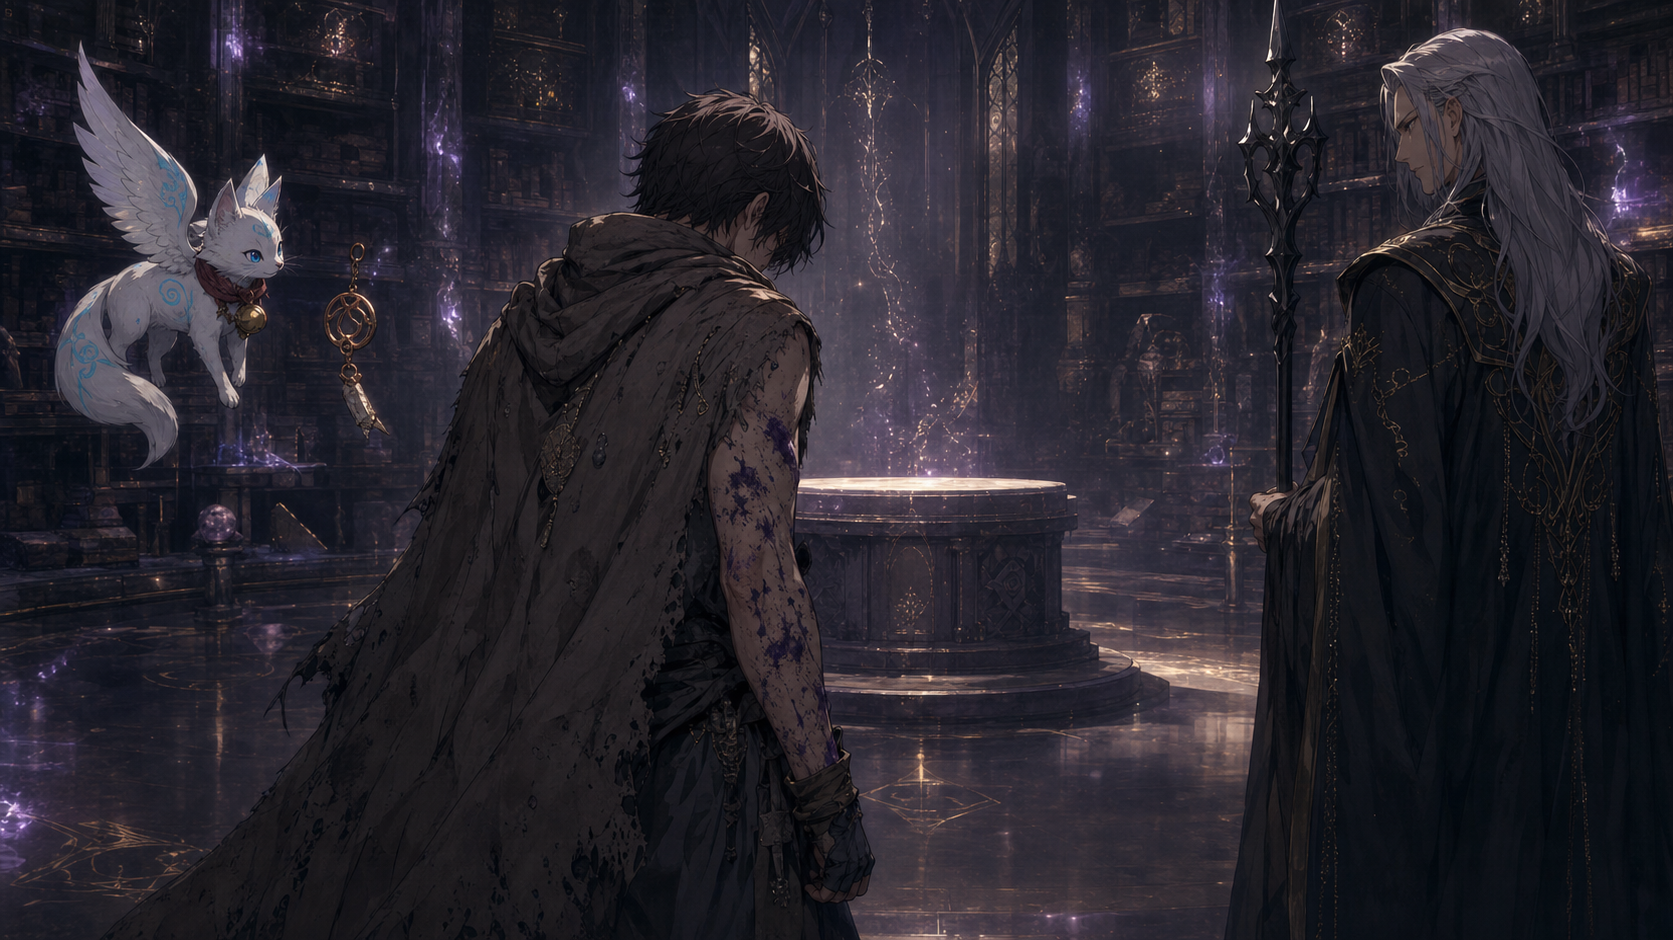
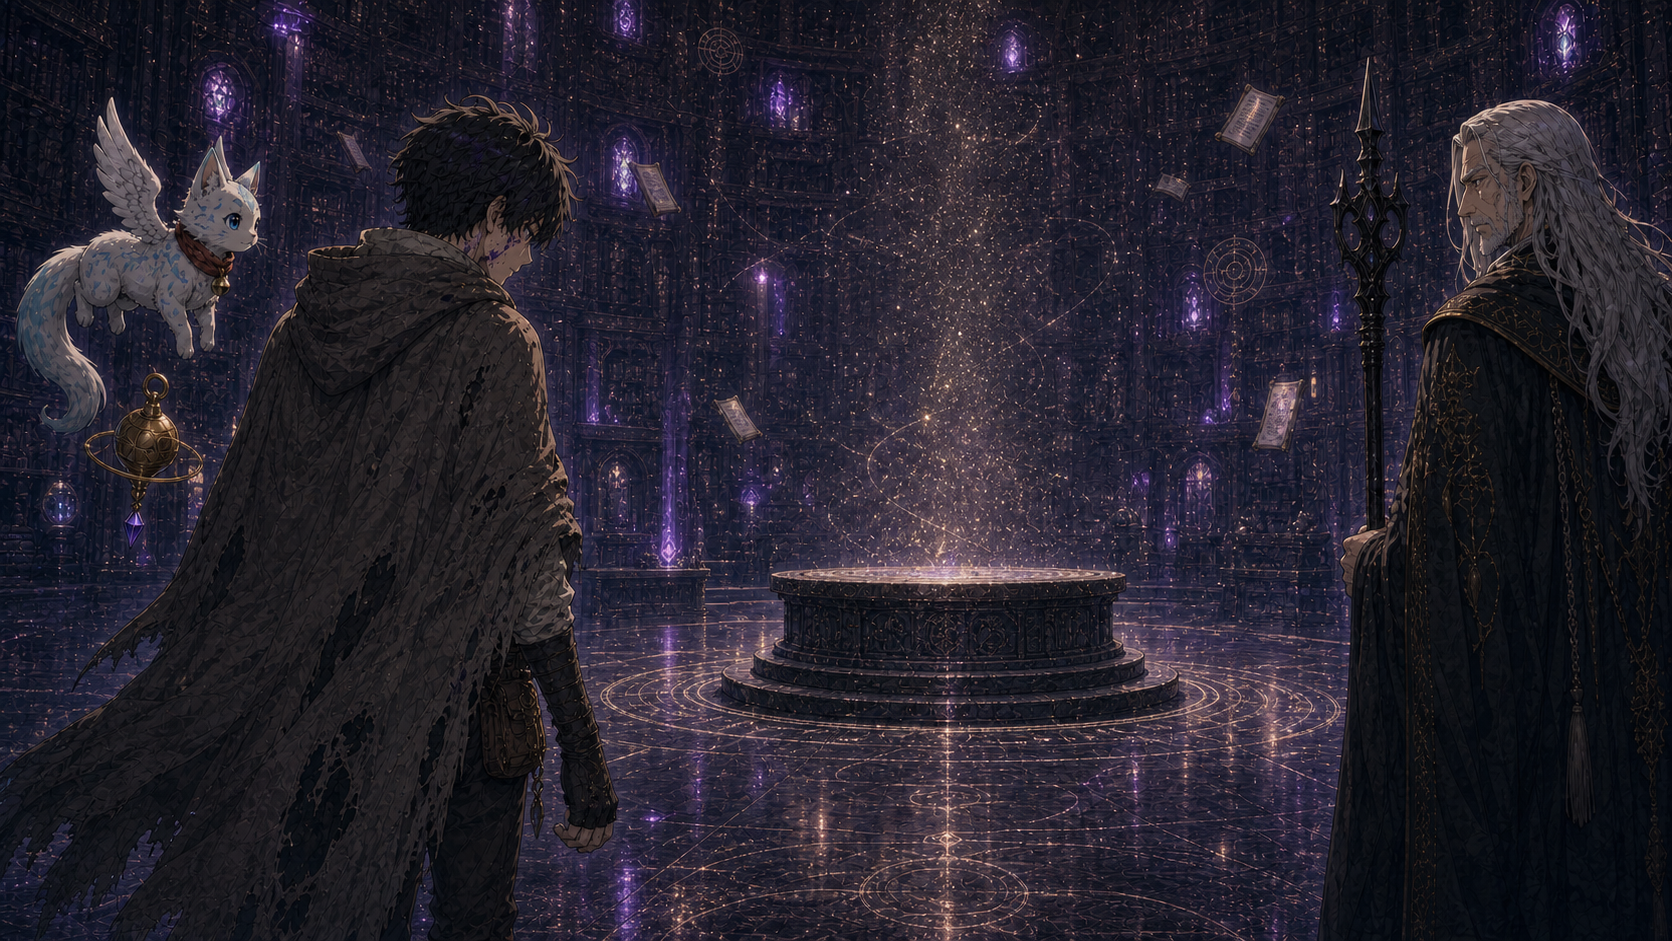
Reader: ship Ch3 archive_aftermath revised image + cache bump
Replaces website/lirien/atmosphere/ch03_archive_aftermath.png with
the approved revised version from
assets/canonical/chapter_3/codex_images/ch03_archive_aftermath_revised.png.
The revised render fixes the Thistle anatomy (foxglitch with
visible wings + brass bell rather than the unclear silhouette in
the prior version) and tightens Elian's silver-white hair and
grave posture. The plinth and surrounding glyph circles are also
more legible.

Cache-buster bumped 20260510v → 20260510w in both
lirien/index.html (4 ?v= occurrences) and lirien/main.js
(ASSET_VERSION) so returning visitors fetch the new bytes for
the atmosphere PNG via the bgUrl() helper.

diff --git a/lirien/index.html b/lirien/index.html
@@ -16,7 +16,7 @@
 	<link rel="preconnect" href="https://fonts.googleapis.com">
 	<link rel="preconnect" href="https://fonts.gstatic.com" crossorigin>
 	<link href="https://fonts.googleapis.com/css2?family=Cormorant+Garamond:ital,wght@0,300;0,400;1,300;1,400&display=swap" rel="stylesheet">
-	<link rel="stylesheet" href="style.css?v=20260510v">
+	<link rel="stylesheet" href="style.css?v=20260510w">
 </head>
 <body>
 	<script>
@@ -290,8 +290,8 @@
 		};
 	})();
 	</script>
-	<script src="analytics.js?v=20260510v"></script>
-	<script src="ink.js?v=20260510v"></script>
-	<script src="main.js?v=20260510v"></script>
+	<script src="analytics.js?v=20260510w"></script>
+	<script src="ink.js?v=20260510w"></script>
+	<script src="main.js?v=20260510w"></script>
 </body>
 </html>

diff --git a/lirien/main.js b/lirien/main.js
@@ -27,7 +27,7 @@ const MUSIC_DIR = "music/";
 // tags, so without a query-param version on their URLs returning
 // visitors keep getting the cached old bytes. Appending ?v=<id>
 // makes the URL itself change → browser fetches as a new resource.
-const ASSET_VERSION = "20260510v";
+const ASSET_VERSION = "20260510w";
 function bgUrl(name)    { return ATMOSPHERE_DIR + name + ".png?v=" + ASSET_VERSION; }
 // Audio served as .m4a (AAC). Switched from .ogg on 2026-05-08:
 // Safari's Ogg Vorbis decoder caused buffer underruns on long-form
